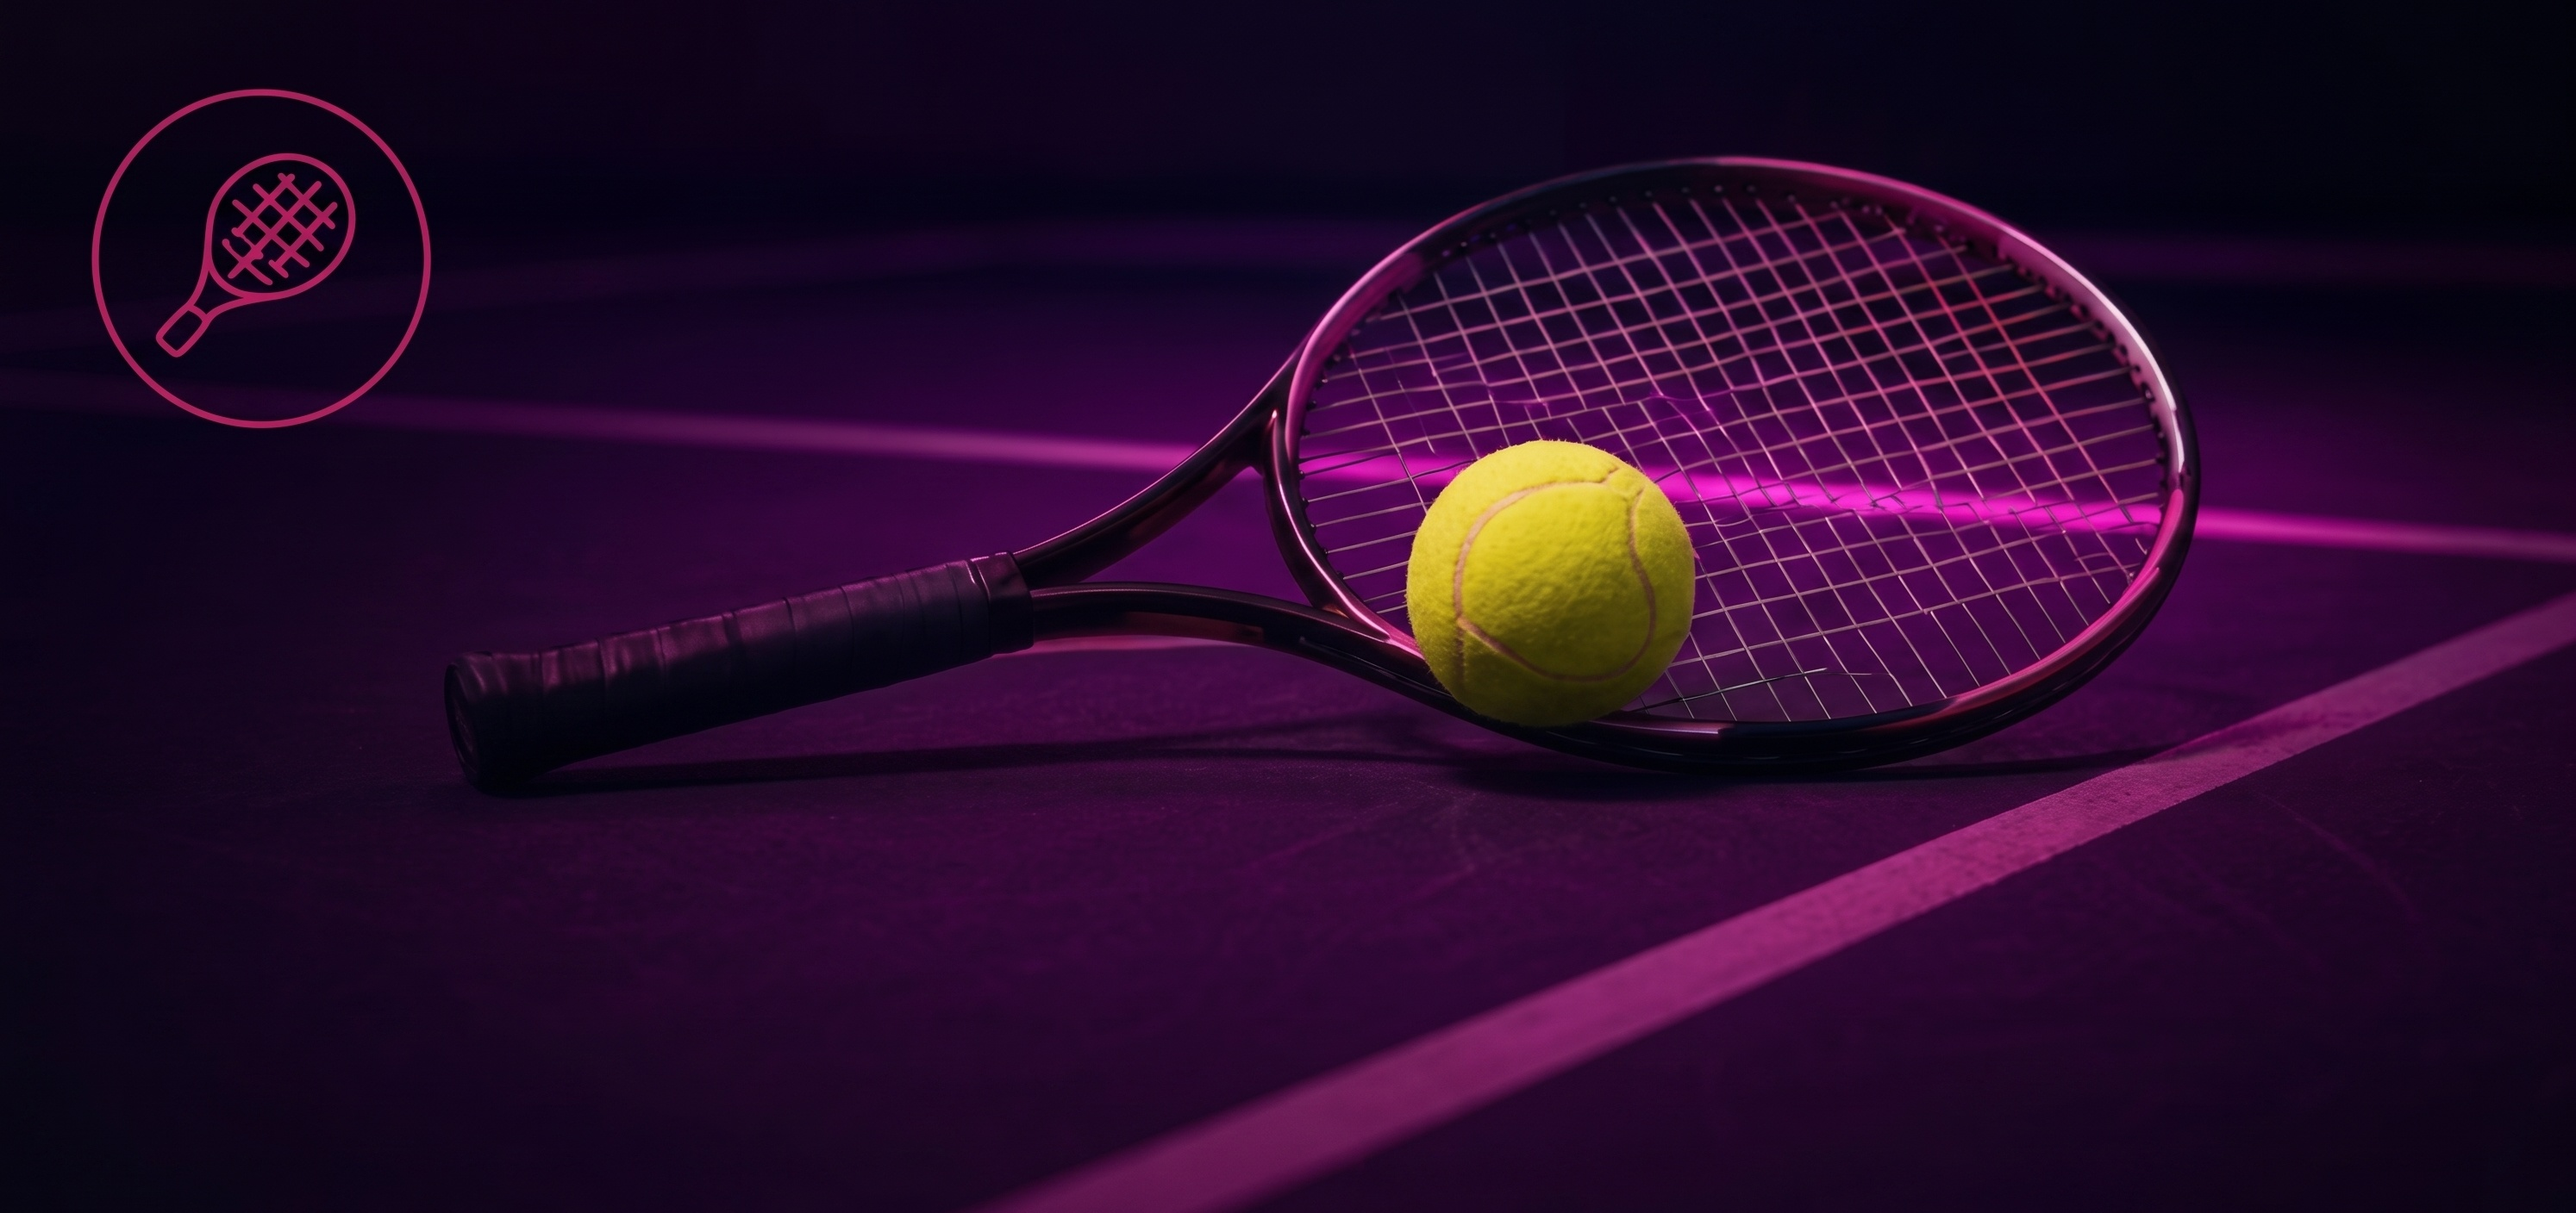
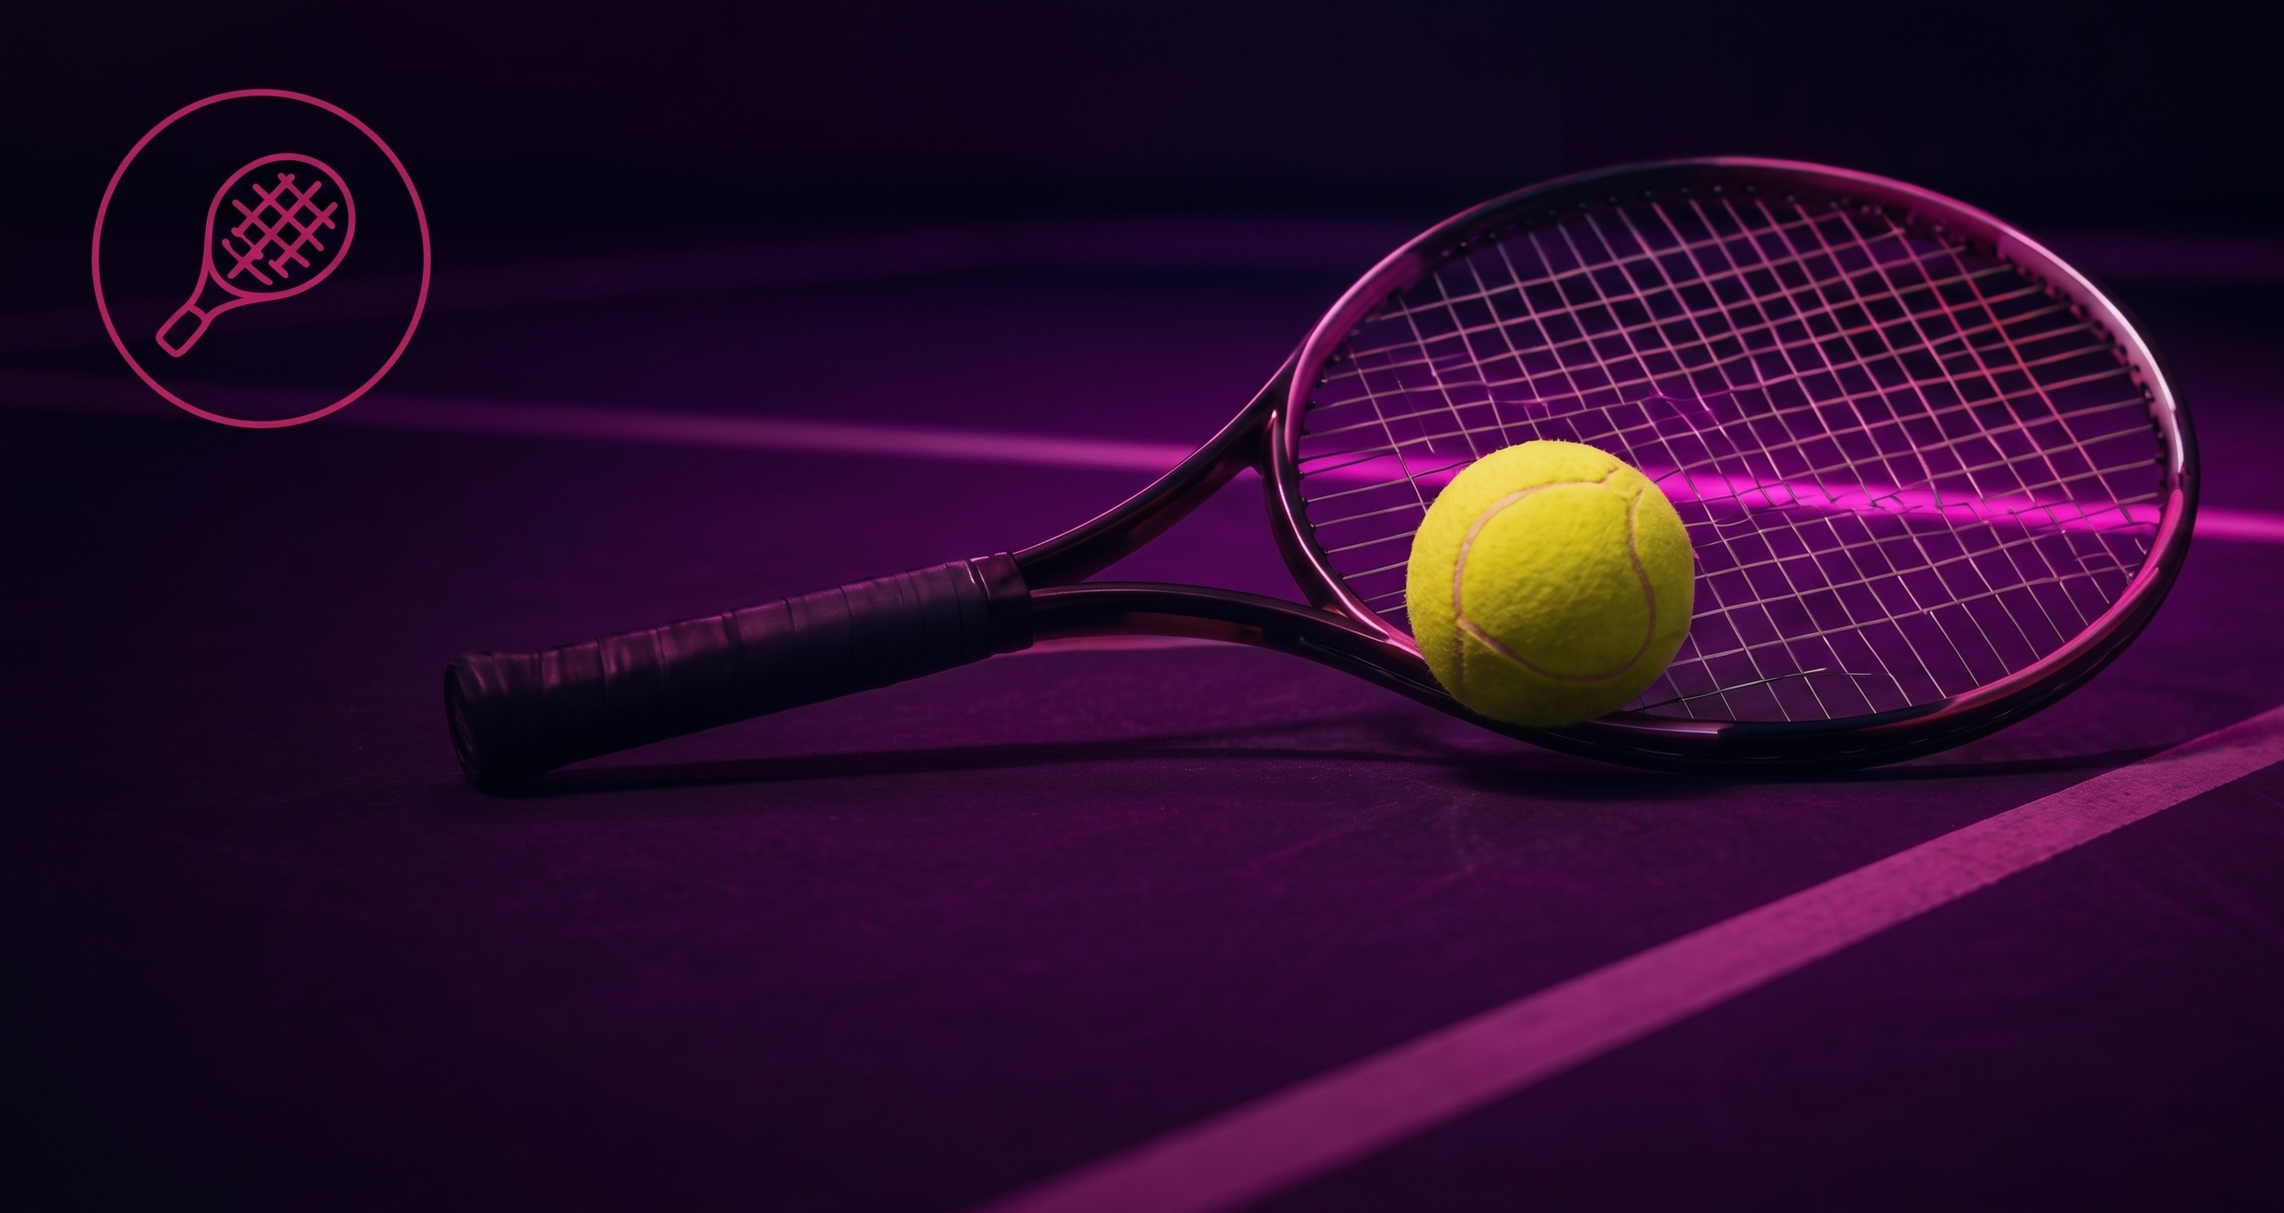
Apply pink-to-lime gradient to МНОГО ЭМОЦИЙ and calibrate card crops

diff --git a/index.html b/index.html
@@ -134,6 +134,14 @@
       color: var(--lime);
     }
 
+    
+    .text-gradient-pink-lime {
+      background: linear-gradient(90deg, #ff2d78 0%, #ff4b8b 30%, #c8ff3d 90%);
+      -webkit-background-clip: text;
+      -webkit-text-fill-color: transparent;
+      display: inline-block;
+    }
+
     .text-gradient-pink {
       color: var(--magenta);
     }
@@ -1560,7 +1568,7 @@
         <span class="games-badge-text">НАШИ ИГРЫ</span>
       </div>
       <h2 class="games-title">
-        5 ИГР. <span class="text-gradient-pink">МНОГО ЭМОЦИЙ</span>
+        5 ИГР. <span class="text-gradient-pink-lime">МНОГО ЭМОЦИЙ</span>
       </h2>
       <p class="games-subtitle">
         В EVOSPORT ты найдёшь игру, которая подходит именно тебе.<br>
